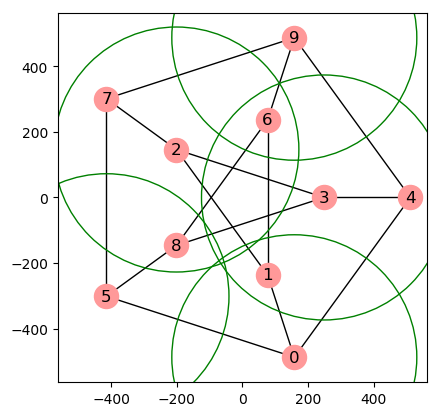
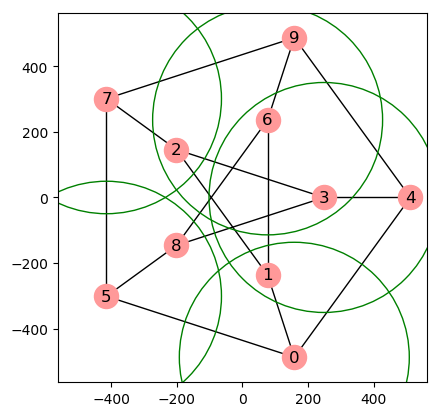
mod: tree decomposition

diff --git a/approximation_algorithms/chapter_08/8.5/tree_decomposition.py b/approximation_algorithms/chapter_08/8.5/tree_decomposition.py
@@ -1,5 +1,6 @@
 from tutte_embedding import tutte_embedding
 from collections import defaultdict
+from itertools import combinations
 import math
 from operator import mul
 import random
@@ -48,7 +49,8 @@ def hierarchical_decomposition(g, pos, dists, ri, pi):
                 if len(B) != 0:
                     C[i - 1].append(B)
                     S -= B
-                    edges.append((repr(c), repr(B), 2**i))
+#                    edges.append((repr(c), repr(B), 2**i))
+                    edges.append((repr(c), repr(B), 2**(i-1)))
                     if len(B) > 1:
                         plt.gca().add_patch(plt.Circle(pos[u], ri[i - 1],
                                                        fc='none', ec='g'))
@@ -70,14 +72,31 @@ def draw_results(g, pos, T, r):
     plt.gca().set_ylim(-1.1 * r, 1.1 * r)
 
 
+def draw_dist_gaps(dists, T):
+    Tdists = dict(nx.all_pairs_dijkstra_path_length(T))
+    x, o, a = [], [], []
+    for u, v in combinations(range(nx.number_of_nodes(g)), 2):
+        x.append(repr((u, v)))
+        o.append(dists[u][v])
+        a.append(Tdists[repr(set([u]))][repr(set([v]))])
+    plt.clf()
+    i = range(len(o))
+    plt.bar(i, o, label="original")
+    plt.bar(i, a, bottom=o, label="tree metrics")
+    plt.legend(loc='best')
+    plt.xticks(i, x, rotation=90)
+
+
 if __name__ == '__main__':
     r = 2**9
     g, pos = get_instance(r)
     dists, log_delta = get_distances(g)
     ri, pi = random_parameter(log_delta, nx.number_of_nodes(g))
     print 'ri:', str(['{0:.2f}'.format(n) for n in ri]).replace("'", "")
-    print 'pi:', pi 
+    print 'pi:', pi
 
     T = hierarchical_decomposition(g, pos, dists, ri, pi)
     draw_results(g, pos, T, r)
     plt.savefig('embedded_graph_img.png', bbox_inches='tight')
+    draw_dist_gaps(dists, T.to_undirected())
+    plt.savefig('dist_gaps.png', bbox_inches='tight')
